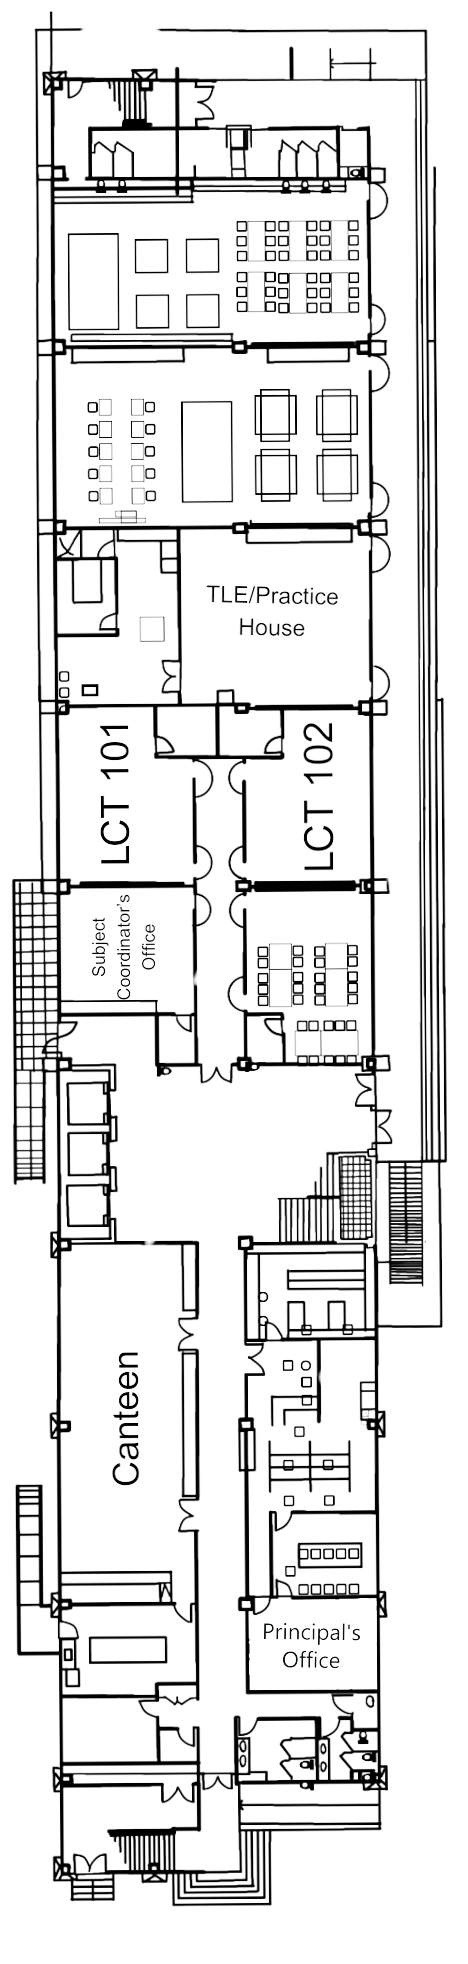
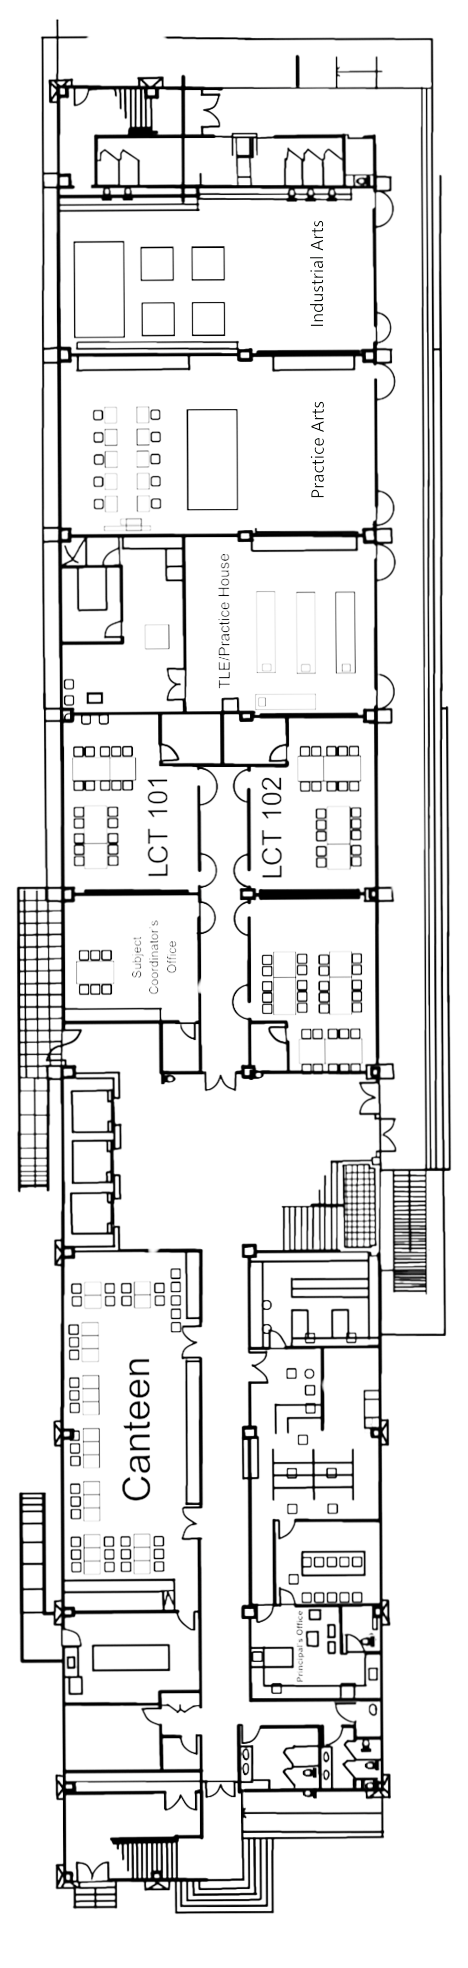
New Assets, UE Map Reworked
Uploaded almost all needed assets, UEScreen has been reworked.

Changed region(s): [[0.0, 0.0, 0.9872, 0.9939]]

diff --git a/app/screens/MapData.js b/app/screens/MapData.js
@@ -36,11 +36,12 @@ export const dropdowndata = [
   // { key: '113', value: 'EN 431' }, { key: '114', value: 'EN 432' }, { key: '115', value: 'EN 433' }, { key: '116', value: 'EN 434' },
   // { key: '117', value: 'EN D1' }, { key: '118', value: 'EN D2' }, { key: '119', value: 'EN D3' }, { key: '120', value: 'EN D4' }, { key: '121', value: 'EN D5' },
   // { key: '122', value: 'EN D6' }, { key: '123', value: 'AEES' },
-
+  
   // // //UNIVERSITY OF THE EAST - GENERAL
-  // { key: '122', value: 'Entrance (Front)' }, { key: '123', value: 'Security Office' }, { key: '124', value: 'GYM' }, { key: '125', value: 'Old Academic Building' },
-  // { key: '126', value: 'Playground' }, { key: '127', value: 'LCT Building' }, { key: '128', value: 'EN Building (Right Wing)' }, { key: '129', value: 'EN Building (Left Wing)' },
-  // { key: '130', value: 'HRM Mock Hotel' }, { key: '131', value: 'TYK Building' }, { key: '132', value: 'Administration Building' },
+  { key: '122', value: 'MAIN ENTRANCE' }, { key: '123', value: 'Security Office' }, { key: '124', value: 'GYM' }, { key: '125', value: 'Old Academic Building' },
+  { key: '126', value: 'Playground' }, { key: '127', value: 'LCT Building' }, { key: '128', value: 'EN Building (Right Wing)' }, { key: '129', value: 'EN Building (Left Wing)' },
+  { key: '130', value: 'HRM Mock Hotel' }, { key: '131', value: 'TYK Building' }, { key: '132', value: 'Administration Building' },
+  { key: '133', value: 'SECOND ENTRANCE' }, { key: '134', value: 'Clinic' }, { key: '135', value: 'Chapel' },
   
   // //TYK BUILDING 1ST FLOOR------------------------------
   // //WALA PA
@@ -179,7 +180,6 @@ export const dropdowndata = [
   { key: '', value: 'Student Coordinator Office' },
   { key: '', value: 'TLE/Practice House' },
   { key: '', value: 'LCT Canteen' },
-  { key: '', value: '' },
 
 ];
 
@@ -422,8 +422,8 @@ export const buildingCoordinates = {
   'Z41': { x: 0.72, y: 0.08, floor: 4 },
 
 //UNIVERSITY OF THE EAST - GENERAL
-  'Entrance (Front)': { x: 0.89, y: 0.80, floor: 5 },
-  'Security Office': { x: 0.83, y: 0.80, floor: 5 },
+  'MAIN ENTRANCE': { x: 0.80, y: 0.92, floor: 5 },
+  'Security Office': { x: 0.72, y: 0.84, floor: 5 },
   'GYM': { x: 0.64, y: 0.91, floor: 5 },
   'Old Academic Building': { x: 0.27, y: 0.75, floor: 5 },
   'Playground': { x: 0.20, y: 0.67, floor: 5 },
@@ -433,31 +433,39 @@ export const buildingCoordinates = {
   'HRM Mock Hotel': { x: 0.80, y: 0.23, floor: 5 },
   'TYK Building': { x: 0.80, y: 0.50, floor: 5 },
   'Administration Building': { x: 0.61, y: 0.76, floor: 5 },
+  'SECOND ENTRANCE': { x: 0.39, y: 0.99, floor: 5 },
+  'Clinic': { x: 0.35, y: 0.81, floor: 5 },
+  'Chapel': { x: 0.39, y: 0.87, floor: 5 },
+  'GYM': { x: 0.24, y: 0.92, floor: 5 },
 
-  'A5': { x: 0.82, y: 0.85, floor: 5 },
-  'B5': { x: 0.76, y: 0.90, floor: 5 },
-  'C5': { x: 0.66, y: 0.88, floor: 5 },  
-  'D5': { x: 0.43, y: 0.84, floor: 5 },
-  'E5': { x: 0.37, y: 0.79, floor: 5 },
-  'F5': { x: 0.31, y: 0.74, floor: 5 },
-  'G5': { x: 0.23, y: 0.66, floor: 5 },
-  'H5': { x: 0.23, y: 0.55, floor: 5 },
-  'I5': { x: 0.23, y: 0.35, floor: 5 },
-  'J5': { x: 0.23, y: 0.21, floor: 5 },
-  'W5': { x: 0.16, y: 0.21, floor: 5 },
-  'W55': { x: 0.16, y: 0.18, floor: 5 },
+  'A5': { x: 0.63, y: 0.90, floor: 5 },
+  'B5': { x: 0.53, y: 0.88, floor: 5 },
+  'C5': { x: 0.46, y: 0.86, floor: 5 },  
+  'D5': { x: 0.41, y: 0.83, floor: 5 },
+  'D51': { x: 0.36, y: 0.84, floor: 5 },
+  'D52': { x: 0.24, y: 0.88, floor: 5 },
+  'D53': { x: 0.27, y: 0.91, floor: 5 },
+  'D54': { x: 0.35, y: 0.98, floor: 5 },
+  'E5': { x: 0.39, y: 0.80, floor: 5 },
+  'F5': { x: 0.33, y: 0.74, floor: 5 },
+  'G5': { x: 0.25, y: 0.67, floor: 5 },
+  'H5': { x: 0.25, y: 0.55, floor: 5 },
+  'I5': { x: 0.25, y: 0.35, floor: 5 },
+  'J5': { x: 0.25, y: 0.21, floor: 5 },
+  'W5': { x: 0.18, y: 0.21, floor: 5 },
+  'W55': { x: 0.18, y: 0.18, floor: 5 },
   'K5': { x: 0.37, y: 0.18, floor: 5 },
   'L5': { x: 0.60, y: 0.18, floor: 5 },
   'M5': { x: 0.80, y: 0.18, floor: 5 },
   'M55': { x: 0.80, y: 0.15, floor: 5 },
-  'N5': { x: 0.77, y: 0.20, floor: 5 },
-  'O5': { x: 0.77, y: 0.31, floor: 5 },
-  'P5': { x: 0.73, y: 0.32, floor: 5 },
-  'Q5': { x: 0.73, y: 0.50, floor: 5 },
-  'R5': { x: 0.73, y: 0.64, floor: 5 },
-  'S5': { x: 0.65, y: 0.68, floor: 5 },
-  'T5': { x: 0.67, y: 0.69, floor: 5 },
-  'U5': { x: 0.56, y: 0.73, floor: 5 },
+  'N5': { x: 0.78, y: 0.21, floor: 5 },
+  'O5': { x: 0.78, y: 0.32, floor: 5 },
+  'P5': { x: 0.75, y: 0.32, floor: 5 },
+  'Q5': { x: 0.75, y: 0.50, floor: 5 },
+  'R5': { x: 0.75, y: 0.64, floor: 5 },
+  'S5': { x: 0.66, y: 0.68, floor: 5 },
+  'T5': { x: 0.69, y: 0.69, floor: 5 },
+  'U5': { x: 0.56, y: 0.74, floor: 5 },
 
 //TYK BUILDING 1ST FLOOR----------------------------
   //WALA PA
@@ -960,9 +968,9 @@ export const graph = {
   'T41': { 'T4': 2, 'EN 434': 1, 'EN - STAIRS LEFT WING1': 1 },
 
 //UNIVERSITY OF THE EAST - GENERAL
-  'Entrance (Front)': { 'A5': 1 , 'Security Office': 1},
-  'Security Office': { 'Entrance (Front)': 1},
-  'GYM': { 'C5': 1},
+  'MAIN ENTRANCE': { 'A5': 1 },
+  'Security Office': { 'A5':1, 'B5': 1},
+  'GYM': { },
   'Old Academic Building': { 'F5': 1 },
   'Playground': { 'G5': 1 },
   'LCT Building': { 'I5': 1 , 'LCT - EL': 2 },
@@ -971,27 +979,36 @@ export const graph = {
   'HRM Mock Hotel': { 'M5': 1 },
   'TYK Building': { 'O5': 5, 'Q5': 5 },
   'Administration Building': { 'U5': 1 },
+  'Clinic': { 'E5': 1 },
   'EN - EL': { 'M55': 1, 'T11': 1 },
   'EN - ER': { 'W55': 1, 'X1': 1 },
+  'SECOND ENTRANCE': { 'D54': 2,},
+  'Chapel': { 'D51': 1,},
+  'GYM': { 'D53': 1,},
 
-  'A5': { 'Entrance (Front)': 1, 'B5': 2 },
-  'B5': { 'A5': 2, 'C5': 2 },
-  'C5': { 'B5': 2, 'D5': 2, 'GYM': 1 },
-  'D5': { 'C5': 2, 'E5': 2 },
-  'E5': { 'D5': 2, 'F5': 2, 'U5': 2 },
+  'A5': { 'MAIN ENTRANCE': 1, 'B5': 2, 'Security Office': 1 },
+  'B5': { 'A5': 2, 'C5': 2, 'Security Office': 1 },
+  'C5': { 'B5': 2, 'D5': 2, },
+  'D5': { 'C5': 2, 'E5': 2, 'D51': 2 },
+  'D51': { 'D5': 2, 'D52': 2, 'Chapel': 1 },
+  'D52': { 'D51': 2, 'D53': 2 },
+  'D53': { 'D52': 2, 'D54': 2, 'GYM': 1 },
+  'D54': { 'D53': 2, 'SECOND ENTRANCE': 2 },
+
+  'E5': { 'D5': 2, 'F5': 2, 'U5': 2, 'Clinic': 1 },
   'F5': { 'E5': 2, 'G5': 2, 'Old Academic Building': 1 },
   'G5': { 'F5': 2, 'H5': 2, 'Playground': 1 },
   'H5': { 'G5': 2, 'I5': 2 },
   'I5': { 'H5': 2, 'J5': 2, 'LCT Building': 1, },
-  'J5': { 'I5': 2, 'K5': 4, 'W5': 2 },
+  'J5': { 'I5': 2, 'K5': 5, 'W5': 2 },
   'W5': { 'J5': 2, 'EN Building (Right Wing)': 1, 'W55': 2 },
   'W55': { 'W5': 2, 'EN - ER': 1 },
 
-  'K5': { 'J5': 4, 'L5': 4 },
-  'L5': { 'K5': 4, 'M5': 2 },
-  'M5': { 'L5': 2, 'N5': 2, 'EN Building (Left Wing)': 1, 'HRM Mock Hotel': 1, 'M55': 2 },
-  'M55': { 'M5': 2, 'EN - EL': 1 },
-  'N5': { 'M5': 2, 'O5': 2 },
+  'K5': { 'J5': 5, 'L5': 5 },
+  'L5': { 'K5': 5, 'M5': 5 },
+  'M5': { 'L5': 5, 'N5': 5, 'EN Building (Left Wing)': 1, 'HRM Mock Hotel': 1, 'M55': 2 },
+  'M55': { 'M5': 5, 'EN - EL': 1 },
+  'N5': { 'M5': 5, 'O5': 2 },
   'O5': { 'N5': 2, 'P5': 2, 'TYK Building': 5 },
   'P5': { 'O5': 2, 'Q5': 2 },
   'Q5': { 'P5': 2, 'R5': 2, 'TYK Building': 5 },
